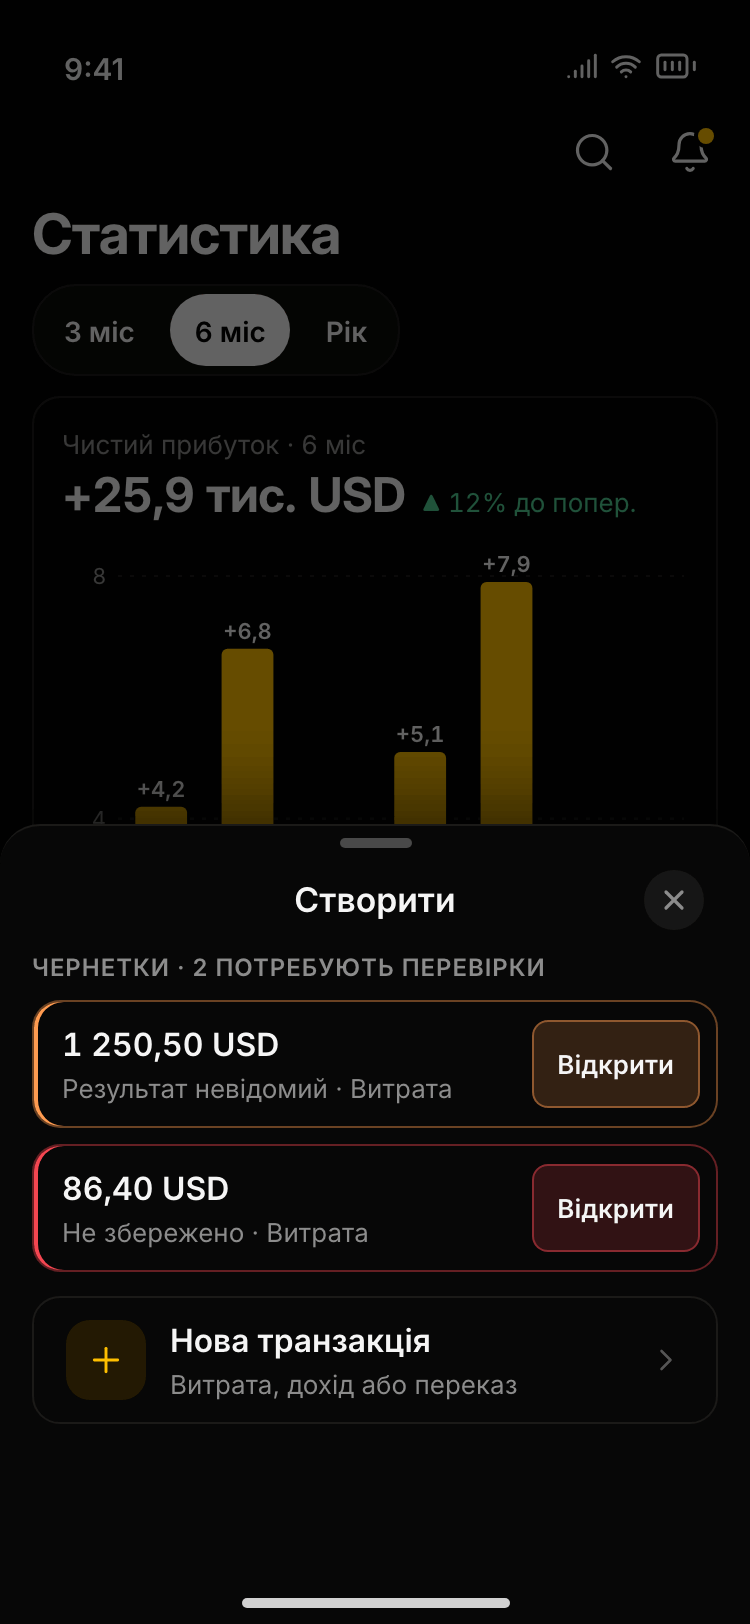
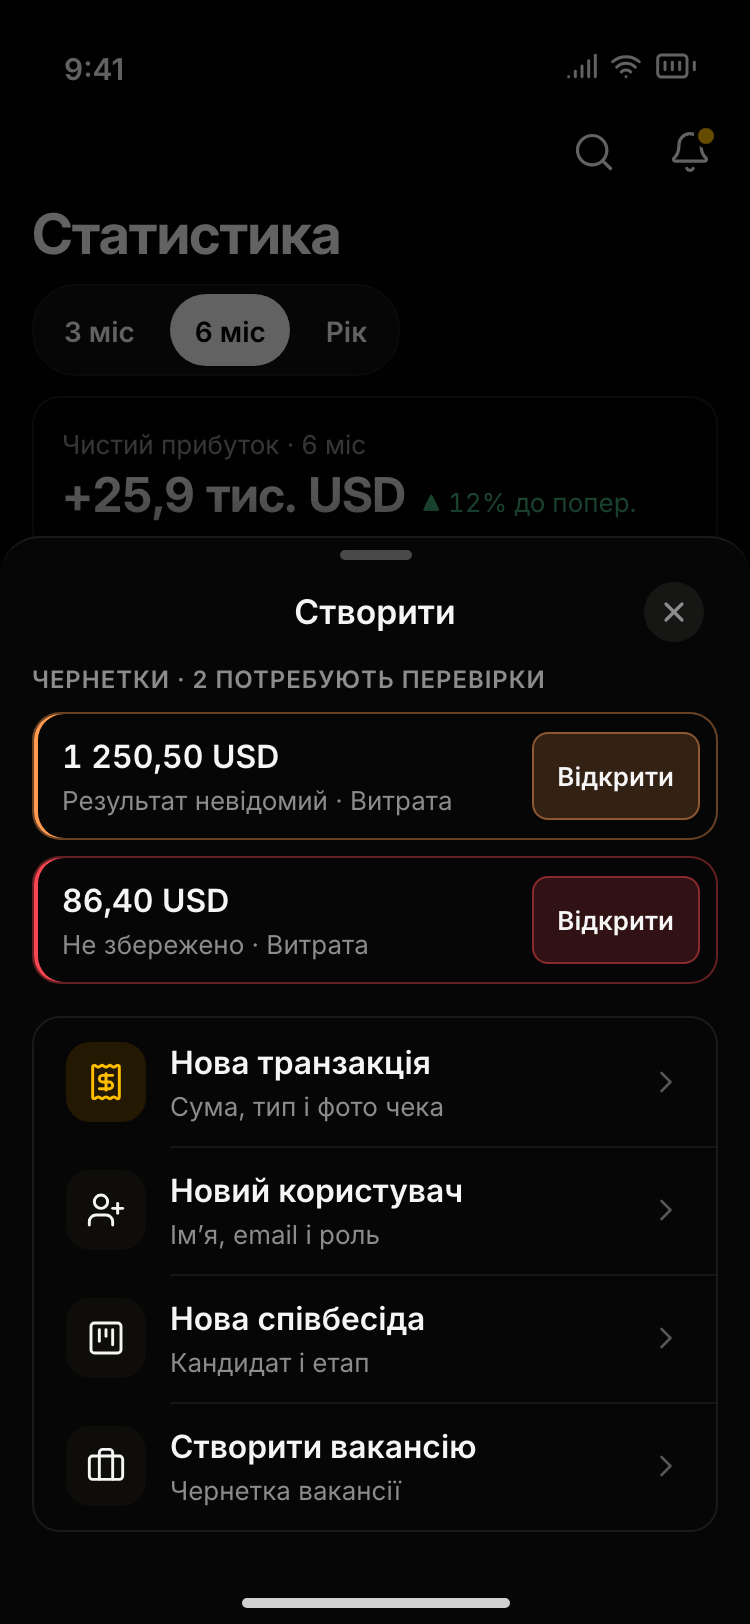
wip: drafts join the quick-add list, non-money FAB unchanged, draft-row format in menus (R8 A)

diff --git a/docs/design/screens/_foundation/shell-v2.md b/docs/design/screens/_foundation/shell-v2.md
@@ -117,7 +117,7 @@ tab bar holds **4 destinations + «Ще»**. «Ще» holds everything else, gro
   in flight > armed > saved**, with the amount for one draft and a count for more («Збережеться 2
   транзакції · Відкрити»; two or more failed or unknown drafts read «2 потребують перевірки»); «+2 чеки» counts only
   uploads that belong to no draft; Фінанси pins one row per unsaved draft (`primitives-v2/drafts-two-375`).
-  An armed or in-flight draft blocks nothing: «+» opens a new form. **«+» never blocks:** with unresolved drafts (failed or unknown), **on Фінанси every «+» opens a new form directly** (the FAB, the rail «+», the header «Нова транзакція» and `C`): the pinned rows and the pill already show the drafts there, and `C` stays one key on the main money page. On the other pages «+» (the FAB, the quick-add action, the rail «+», and the header «Нова транзакція» with `C` where a page carries it, as on Статистика) opens the **chooser**. On a phone it is the quick-add sheet: the draft rows on top, each with its state line and «Відкрити», and «Нова транзакція» enabled under them (`primitives-v2/quick-add-drafts-375`). Off the phone it is a menu (`role="menu"`, the trigger `aria-haspopup="menu"`): the drafts above, «Нова транзакція» last with the initial focus, so `C` then Enter still creates; ↑ / ↓ move between the items, and Esc closes it and returns focus to the trigger; under `(pointer: coarse)` the key hints («↑ ↓», «Enter») are hidden (`primitives-v2/drafts-chooser-1440` on Статистика, `drafts-chooser-768` on Співбесіди). The FAB keeps its «+» and gains a red dot (with the count from two); its accessible name says the count: «Нова транзакція, 1 чернетка потребує уваги», «Нова транзакція, 2 чернетки потребують уваги». Discard is offered for a failed
+  An armed or in-flight draft blocks nothing: «+» opens a new form. **«+» never blocks:** with unresolved drafts (failed or unknown), **on Фінанси every «+» opens a new form directly** (the FAB, the rail «+», the header «Нова транзакція» and `C`): the pinned rows and the pill already show the drafts there, and `C` stays one key on the main money page. On the other pages a money draft **never hides other actions**: the drafts join the existing «+» menus and never replace them. The quick-add sheet (phone) and the rail «+» menu (tablet) keep the role's normal action list; with unresolved drafts a «Чернетки» section sits on top, each draft row in the pinned-row format (the amount, then state · type, and «Відкрити»), then the normal actions, «Нова транзакція» among them (`primitives-v2/quick-add-drafts-375` from Статистика and `drafts-chooser-768` from Співбесіди, both with the 4 ADMIN actions); in the rail menu «Нова транзакція», the first normal action, takes the initial focus. A page FAB whose action is not money (Користувачі «Новий користувач», Співбесіди «Нова співбесіда», Вакансії «Створити вакансію») never changes and gets no dot. The header «Нова транзакція» and `C`, a money trigger by name, open a compact menu: the «Чернетки» section above, «Нова транзакція» last with the initial focus, so `C` then Enter still creates (`primitives-v2/drafts-chooser-1440` on Статистика). Every menu off the phone is `role="menu"` with the trigger `aria-haspopup="menu"`; ↑ / ↓ move between the items, and Esc closes it and returns focus to the trigger; under `(pointer: coarse)` the key hints («↑ ↓», «Enter») are hidden and a draft's state line is at least 13 px. The money FAB on Фінанси and the quick-add «+» keep their «+» and gain a red dot (with the count from two); the accessible name says the count: «Нова транзакція, 1 чернетка потребує уваги» on Фінанси, «Створити, 2 чернетки потребують уваги» on the quick-add «+». Discard is offered for a failed
   or unknown draft and is unavailable only while its request is in flight. Every money create writes
   its page-kill marker `{ t, phase: 'sent' }` at send (an armed one writes `armed` first);
   backgrounding does not disarm; a page kill is reported at the next boot with one alert per phase
@@ -215,17 +215,17 @@ tab bar holds **4 destinations + «Ще»**. «Ще» holds everything else, gro
 The draft state model is the same everywhere (`foundation.md` §11 money drafts); only the placement
 changes.
 
-| Concern                                  | Phone (< 640)                                                                                                                                                                                                                                                                                                                                     | Tablet (640–1023)                                                                                                                                                                                                                                                              | Desktop (≥ 1024)                                                                                                                                                                                                                                                                                                                         |
-| ---------------------------------------- | ------------------------------------------------------------------------------------------------------------------------------------------------------------------------------------------------------------------------------------------------------------------------------------------------------------------------------------------------- | ------------------------------------------------------------------------------------------------------------------------------------------------------------------------------------------------------------------------------------------------------------------------------ | ---------------------------------------------------------------------------------------------------------------------------------------------------------------------------------------------------------------------------------------------------------------------------------------------------------------------------------------- |
-| Where a new draft starts                 | The FAB (on Фінанси it is «Нова транзакція»), or the quick-add menu elsewhere                                                                                                                                                                                                                                                                     | The rail «+» (top of the rail), the same action                                                                                                                                                                                                                                | The header primary «Нова транзакція» (`C`), or Cmd+K → Дії                                                                                                                                                                                                                                                                               |
-| The start control with unresolved drafts | Never blocks: on Фінанси every «+» opens a new form directly; on the other tabs the FAB keeps «+», gains a red dot (the count from two) and the name «Нова транзакція, 1 чернетка потребує уваги», and a tap opens the quick-add sheet with the draft rows on top and «Нова транзакція» enabled under them (`primitives-v2/quick-add-drafts-375`) | On Фінанси the rail «+» opens a new form directly; elsewhere it gains the dot and the name and opens the chooser menu beside it; «Нова транзакція» takes the initial focus; key hints are hidden under `(pointer: coarse)` (`primitives-v2/drafts-chooser-768`, on Співбесіди) | The header «Нова транзакція» keeps its label and gains the dot and the name; on Фінанси it and `C` open a new form directly; on the other pages that carry it (Статистика) they open the chooser menu under the button; «Нова транзакція» takes the initial focus, so `C` then Enter still creates (`primitives-v2/drafts-chooser-1440`) |
-| Form container                           | Large sheet (`quick-add-txn-*`) or the pushed page (`form-money-375`)                                                                                                                                                                                                                                                                             | Side panel, 400 px, the same `moneyBody()` (`primitives-v2/sheet-panel-768`)                                                                                                                                                                                                   | Side panel, 420 at 1024 / 480 at 1440 (`sheet-panel-1024`, `sheet-panel-1440`)                                                                                                                                                                                                                                                           |
-| The pill slot                            | Above the tab bar, left of the FAB (§2 floating-layer stacking)                                                                                                                                                                                                                                                                                   | Bottom-right, 24 px from both edges, 320 wide (`primitives-v2/upload-pill-768`); toasts (420 wide) stack above it in the same corner; the scroller gets bottom padding = the stack height + 24; with a side panel open the corner moves left of the panel                      | Bottom-right of the main area, 24 px from both edges (`primitives-v2/drafts-desktop-1440`); toasts stack above it in the same corner; the same bottom padding and the same move left of an open side panel                                                                                                                               |
-| Pinned draft rows                        | Top of the Фінанси list: at most two rows, unresolved first, then «Ще N чернеток · Показати» (toggles to «Згорнути», resets on a route change); two lines, the amount alone then state · type; «Відкрити» is tonal (`primitives-v2/drafts-two-unresolved-375`)                                                                                    | Top of the Фінанси list pane                                                                                                                                                                                                                                                   | Top of the Фінанси table: one full-width 40 px row with the amount, state · type and a tonal «Відкрити» (`primitives-v2/drafts-desktop-1440`)                                                                                                                                                                                            |
-| «Перевірити список» (form is open)       | The check sheet «Нові записи» over the kept form sheet                                                                                                                                                                                                                                                                                            | A centred 560 px dialog «Нові записи» over the side panel; the panel stays mounted and keeps the draft                                                                                                                                                                         | The same 560 px dialog over the side panel (`primitives-v2/check-dialog-1024`)                                                                                                                                                                                                                                                           |
-| Focus after the check closes             | Back to «Перевірити список»                                                                                                                                                                                                                                                                                                                       | Back to «Перевірити список» in the panel                                                                                                                                                                                                                                       | Same                                                                                                                                                                                                                                                                                                                                     |
-| Receipt switch (empty receipt)           | «Файл» / «Посилання», 44 px segmented above the tile                                                                                                                                                                                                                                                                                              | The same switch, 44 px, in the panel (`sheet-panel-768`)                                                                                                                                                                                                                       | The same switch; 36 px on `(pointer: fine)`, 44 on `(pointer: coarse)`                                                                                                                                                                                                                                                                   |
-| Receipt, effective currency USDT         | The explorer-link field only, no switch (`form-receipt-usdt-empty-375`)                                                                                                                                                                                                                                                                           | Same                                                                                                                                                                                                                                                                           | Same                                                                                                                                                                                                                                                                                                                                     |
+| Concern                                  | Phone (< 640)                                                                                                                                                                                                                                                                                                                                                                                                                               | Tablet (640–1023)                                                                                                                                                                                                                                                                                                                               | Desktop (≥ 1024)                                                                                                                                                                                                                                                                                                                                                                          |
+| ---------------------------------------- | ------------------------------------------------------------------------------------------------------------------------------------------------------------------------------------------------------------------------------------------------------------------------------------------------------------------------------------------------------------------------------------------------------------------------------------------- | ----------------------------------------------------------------------------------------------------------------------------------------------------------------------------------------------------------------------------------------------------------------------------------------------------------------------------------------------- | ----------------------------------------------------------------------------------------------------------------------------------------------------------------------------------------------------------------------------------------------------------------------------------------------------------------------------------------------------------------------------------------- |
+| Where a new draft starts                 | The FAB (on Фінанси it is «Нова транзакція»), or the quick-add menu elsewhere                                                                                                                                                                                                                                                                                                                                                               | The rail «+» (top of the rail), the same action                                                                                                                                                                                                                                                                                                 | The header primary «Нова транзакція» (`C`), or Cmd+K → Дії                                                                                                                                                                                                                                                                                                                                |
+| The start control with unresolved drafts | Never blocks: on Фінанси every «+» opens a new form directly; on a tab whose FAB is quick-add, the FAB keeps «+», gains a red dot (the count from two) and the name «Створити, 2 чернетки потребують уваги», and a tap opens the quick-add sheet: the «Чернетки» section on top, then the role's normal actions (`primitives-v2/quick-add-drafts-375`); a non-money page FAB (Користувачі «Новий користувач») never changes and gets no dot | On Фінанси the rail «+» opens a new form directly; elsewhere it gains the dot and the name and opens its quick-add menu beside it: the «Чернетки» section on top, then the role's normal actions; «Нова транзакція» takes the initial focus; key hints are hidden under `(pointer: coarse)` (`primitives-v2/drafts-chooser-768`, on Співбесіди) | The header «Нова транзакція» keeps its label and gains the dot and the name; on Фінанси it and `C` open a new form directly; on the other pages that carry it (Статистика) they open the compact menu under the button (the «Чернетки» section, «Нова транзакція» last); «Нова транзакція» takes the initial focus, so `C` then Enter still creates (`primitives-v2/drafts-chooser-1440`) |
+| Form container                           | Large sheet (`quick-add-txn-*`) or the pushed page (`form-money-375`)                                                                                                                                                                                                                                                                                                                                                                       | Side panel, 400 px, the same `moneyBody()` (`primitives-v2/sheet-panel-768`)                                                                                                                                                                                                                                                                    | Side panel, 420 at 1024 / 480 at 1440 (`sheet-panel-1024`, `sheet-panel-1440`)                                                                                                                                                                                                                                                                                                            |
+| The pill slot                            | Above the tab bar, left of the FAB (§2 floating-layer stacking)                                                                                                                                                                                                                                                                                                                                                                             | Bottom-right, 24 px from both edges, 320 wide (`primitives-v2/upload-pill-768`); toasts (420 wide) stack above it in the same corner; the scroller gets bottom padding = the stack height + 24; with a side panel open the corner moves left of the panel                                                                                       | Bottom-right of the main area, 24 px from both edges (`primitives-v2/drafts-desktop-1440`); toasts stack above it in the same corner; the same bottom padding and the same move left of an open side panel                                                                                                                                                                                |
+| Pinned draft rows                        | Top of the Фінанси list: at most two rows, unresolved first, then «Ще N чернеток · Показати» (toggles to «Згорнути», resets on a route change); two lines, the amount alone then state · type; «Відкрити» is tonal (`primitives-v2/drafts-two-unresolved-375`)                                                                                                                                                                              | Top of the Фінанси list pane                                                                                                                                                                                                                                                                                                                    | Top of the Фінанси table: one full-width 40 px row with the amount, state · type and a tonal «Відкрити» (`primitives-v2/drafts-desktop-1440`)                                                                                                                                                                                                                                             |
+| «Перевірити список» (form is open)       | The check sheet «Нові записи» over the kept form sheet                                                                                                                                                                                                                                                                                                                                                                                      | A centred 560 px dialog «Нові записи» over the side panel; the panel stays mounted and keeps the draft                                                                                                                                                                                                                                          | The same 560 px dialog over the side panel (`primitives-v2/check-dialog-1024`)                                                                                                                                                                                                                                                                                                            |
+| Focus after the check closes             | Back to «Перевірити список»                                                                                                                                                                                                                                                                                                                                                                                                                 | Back to «Перевірити список» in the panel                                                                                                                                                                                                                                                                                                        | Same                                                                                                                                                                                                                                                                                                                                                                                      |
+| Receipt switch (empty receipt)           | «Файл» / «Посилання», 44 px segmented above the tile                                                                                                                                                                                                                                                                                                                                                                                        | The same switch, 44 px, in the panel (`sheet-panel-768`)                                                                                                                                                                                                                                                                                        | The same switch; 36 px on `(pointer: fine)`, 44 on `(pointer: coarse)`                                                                                                                                                                                                                                                                                                                    |
+| Receipt, effective currency USDT         | The explorer-link field only, no switch (`form-receipt-usdt-empty-375`)                                                                                                                                                                                                                                                                                                                                                                     | Same                                                                                                                                                                                                                                                                                                                                            | Same                                                                                                                                                                                                                                                                                                                                                                                      |
 
 ---
 

diff --git a/docs/design/screens/_foundation/primitives-v2.md b/docs/design/screens/_foundation/primitives-v2.md
@@ -362,7 +362,7 @@ must not share one UI (spec §4.5b):
   confirms at PNG approval). Closing the sheet returns to the form. When the user reaches the Finance
   list another way, the kept draft is a pinned row at the top (`listrow-draft-375`): the amount alone
   on one line with no wrap («1 250,50 USD»), the state line «Не збережено · Витрата» (after an unknown
-  outcome «Результат невідомий · Витрата») and **one** 44 px tonal «Відкрити» (no other action on the row). A pinned row is never a primary: its «Відкрити» is tonal (foundation §7.5). The 2 px leading bar, the border and the «Відкрити» tint are `--destructive` for a failed draft and `--warning` for an unknown one; armed and in-flight rows stay muted. The phone row carries no icon tile, so the state line fits on one line at 375 beside «Відкрити»; the desktop row keeps its icon. **At most two pinned rows** show, unresolved first by the slot precedence; the rest collapse into one row «Ще N чернеток · Показати», which expands them in place; its label then toggles to «Згорнути», it keeps `aria-expanded`, and it resets to collapsed on a route change (`drafts-two-unresolved-375`). Each row has two lines: the amount alone on one line with no wrap («1 250,50 USD»), then state · type («Результат невідомий · Витрата»). «+» never blocks: with unresolved drafts (failed or unknown), **on Фінанси every «+» opens a new form directly** (the FAB, the rail «+», the header «Нова транзакція» and `C`): the pinned rows and the pill already show the drafts there, and `C` stays one key on the main money page. On the other pages «+» (the FAB, the quick-add action, the rail «+», and the header «Нова транзакція» with `C` where a page carries it, as on Статистика) opens the **chooser**. On a phone it is the quick-add sheet: the draft rows on top, each with its state line and «Відкрити», and «Нова транзакція» enabled under them (`primitives-v2/quick-add-drafts-375`). Off the phone it is a menu (`role="menu"`, the trigger `aria-haspopup="menu"`): the drafts above, «Нова транзакція» last with the initial focus, so `C` then Enter still creates; ↑ / ↓ move between the items, and Esc closes it and returns focus to the trigger; under `(pointer: coarse)` the key hints («↑ ↓», «Enter») are hidden (`primitives-v2/drafts-chooser-1440` on Статистика, `drafts-chooser-768` on Співбесіди). The FAB keeps its «+» and gains a red dot (with the count from two); its accessible name says the count: «Нова транзакція, 1 чернетка потребує уваги», «Нова транзакція, 2 чернетки потребують уваги» (`listrow-draft-375`,
+  outcome «Результат невідомий · Витрата») and **one** 44 px tonal «Відкрити» (no other action on the row). A pinned row is never a primary: its «Відкрити» is tonal (foundation §7.5). The 2 px leading bar, the border and the «Відкрити» tint are `--destructive` for a failed draft and `--warning` for an unknown one; armed and in-flight rows stay muted. The phone row carries no icon tile, so the state line fits on one line at 375 beside «Відкрити»; the desktop row keeps its icon. **At most two pinned rows** show, unresolved first by the slot precedence; the rest collapse into one row «Ще N чернеток · Показати», which expands them in place; its label then toggles to «Згорнути», it keeps `aria-expanded`, and it resets to collapsed on a route change (`drafts-two-unresolved-375`). Each row has two lines: the amount alone on one line with no wrap («1 250,50 USD»), then state · type («Результат невідомий · Витрата»). «+» never blocks: with unresolved drafts (failed or unknown), **on Фінанси every «+» opens a new form directly** (the FAB, the rail «+», the header «Нова транзакція» and `C`): the pinned rows and the pill already show the drafts there, and `C` stays one key on the main money page. On the other pages a money draft **never hides other actions**: the drafts join the existing «+» menus and never replace them. The quick-add sheet (phone) and the rail «+» menu (tablet) keep the role's normal action list; with unresolved drafts a «Чернетки» section sits on top, each draft row in the pinned-row format (the amount, then state · type, and «Відкрити»), then the normal actions, «Нова транзакція» among them (`primitives-v2/quick-add-drafts-375` from Статистика and `drafts-chooser-768` from Співбесіди, both with the 4 ADMIN actions); in the rail menu «Нова транзакція», the first normal action, takes the initial focus. A page FAB whose action is not money (Користувачі «Новий користувач», Співбесіди «Нова співбесіда», Вакансії «Створити вакансію») never changes and gets no dot. The header «Нова транзакція» and `C`, a money trigger by name, open a compact menu: the «Чернетки» section above, «Нова транзакція» last with the initial focus, so `C` then Enter still creates (`primitives-v2/drafts-chooser-1440` on Статистика). Every menu off the phone is `role="menu"` with the trigger `aria-haspopup="menu"`; ↑ / ↓ move between the items, and Esc closes it and returns focus to the trigger; under `(pointer: coarse)` the key hints («↑ ↓», «Enter») are hidden and a draft's state line is at least 13 px. The money FAB on Фінанси and the quick-add «+» keep their «+» and gain a red dot (with the count from two); the accessible name says the count: «Нова транзакція, 1 чернетка потребує уваги» on Фінанси, «Створити, 2 чернетки потребують уваги» on the quick-add «+» (`listrow-draft-375`,
   `upload-pill-failed-375`). After the first
   Wave 1 task ships the key, a form that has it may offer a resubmit with the same key.
 

diff --git a/docs/design/foundation.md b/docs/design/foundation.md
@@ -439,7 +439,7 @@ reference widths below. Mobile-first: the base is mobile, scale up with `sm` / `
     unknown), ordered by the slot precedence, each with its state line and one 44 px tonal «Відкрити»
     (`drafts-two-375.png`: one failed and one armed). A lower state the pill does not show is never
     lost: its row is there. A pinned row is never a primary: its «Відкрити» is tonal (one primary per context, §7.5). The 2 px leading bar, the border and the «Відкрити» tint are `--destructive` for a failed draft and `--warning` for an unknown one; armed and in-flight rows stay muted. The phone row carries no icon tile, so the state line fits on one line at 375 beside «Відкрити»; the desktop row keeps its icon. **At most two pinned rows** show, unresolved first by the slot precedence; the rest collapse into one row «Ще N чернеток · Показати», which expands them in place; its label then toggles to «Згорнути», it keeps `aria-expanded`, and it resets to collapsed on a route change (`drafts-two-unresolved-375`). Each row has two lines: the amount alone on one line with no wrap («1 250,50 USD»), then state · type («Результат невідомий · Витрата»).
-  - **«+» never blocks.** Armed and in-flight drafts change nothing: «+» opens a new form. With unresolved drafts (failed or unknown), **on Фінанси every «+» opens a new form directly** (the FAB, the rail «+», the header «Нова транзакція» and `C`): the pinned rows and the pill already show the drafts there, and `C` stays one key on the main money page. On the other pages «+» (the FAB, the quick-add action, the rail «+», and the header «Нова транзакція» with `C` where a page carries it, as on Статистика) opens the **chooser**. On a phone it is the quick-add sheet: the draft rows on top, each with its state line and «Відкрити», and «Нова транзакція» enabled under them (`primitives-v2/quick-add-drafts-375`). Off the phone it is a menu (`role="menu"`, the trigger `aria-haspopup="menu"`): the drafts above, «Нова транзакція» last with the initial focus, so `C` then Enter still creates; ↑ / ↓ move between the items, and Esc closes it and returns focus to the trigger; under `(pointer: coarse)` the key hints («↑ ↓», «Enter») are hidden (`primitives-v2/drafts-chooser-1440` on Статистика, `drafts-chooser-768` on Співбесіди). The FAB keeps its «+» and gains a red dot (with the count from two); its accessible name says the count: «Нова транзакція, 1 чернетка потребує уваги», «Нова транзакція, 2 чернетки потребують уваги»
+  - **«+» never blocks.** Armed and in-flight drafts change nothing: «+» opens a new form. With unresolved drafts (failed or unknown), **on Фінанси every «+» opens a new form directly** (the FAB, the rail «+», the header «Нова транзакція» and `C`): the pinned rows and the pill already show the drafts there, and `C` stays one key on the main money page. On the other pages a money draft **never hides other actions**: the drafts join the existing «+» menus and never replace them. The quick-add sheet (phone) and the rail «+» menu (tablet) keep the role's normal action list; with unresolved drafts a «Чернетки» section sits on top, each draft row in the pinned-row format (the amount, then state · type, and «Відкрити»), then the normal actions, «Нова транзакція» among them (`primitives-v2/quick-add-drafts-375` from Статистика and `drafts-chooser-768` from Співбесіди, both with the 4 ADMIN actions); in the rail menu «Нова транзакція», the first normal action, takes the initial focus. A page FAB whose action is not money (Користувачі «Новий користувач», Співбесіди «Нова співбесіда», Вакансії «Створити вакансію») never changes and gets no dot. The header «Нова транзакція» and `C`, a money trigger by name, open a compact menu: the «Чернетки» section above, «Нова транзакція» last with the initial focus, so `C` then Enter still creates (`primitives-v2/drafts-chooser-1440` on Статистика). Every menu off the phone is `role="menu"` with the trigger `aria-haspopup="menu"`; ↑ / ↓ move between the items, and Esc closes it and returns focus to the trigger; under `(pointer: coarse)` the key hints («↑ ↓», «Enter») are hidden and a draft's state line is at least 13 px. The money FAB on Фінанси and the quick-add «+» keep their «+» and gain a red dot (with the count from two); the accessible name says the count: «Нова транзакція, 1 чернетка потребує уваги» on Фінанси, «Створити, 2 чернетки потребують уваги» on the quick-add «+»
     (`upload-pill-failed-375.png`, `listrow-draft-375.png`, `drafts-two-unresolved-375.png`). No draft
     forces a wait or a discard before another expense.
   - **Replacing or removing the receipt disarms**, like any field edit: the frozen payload named the
